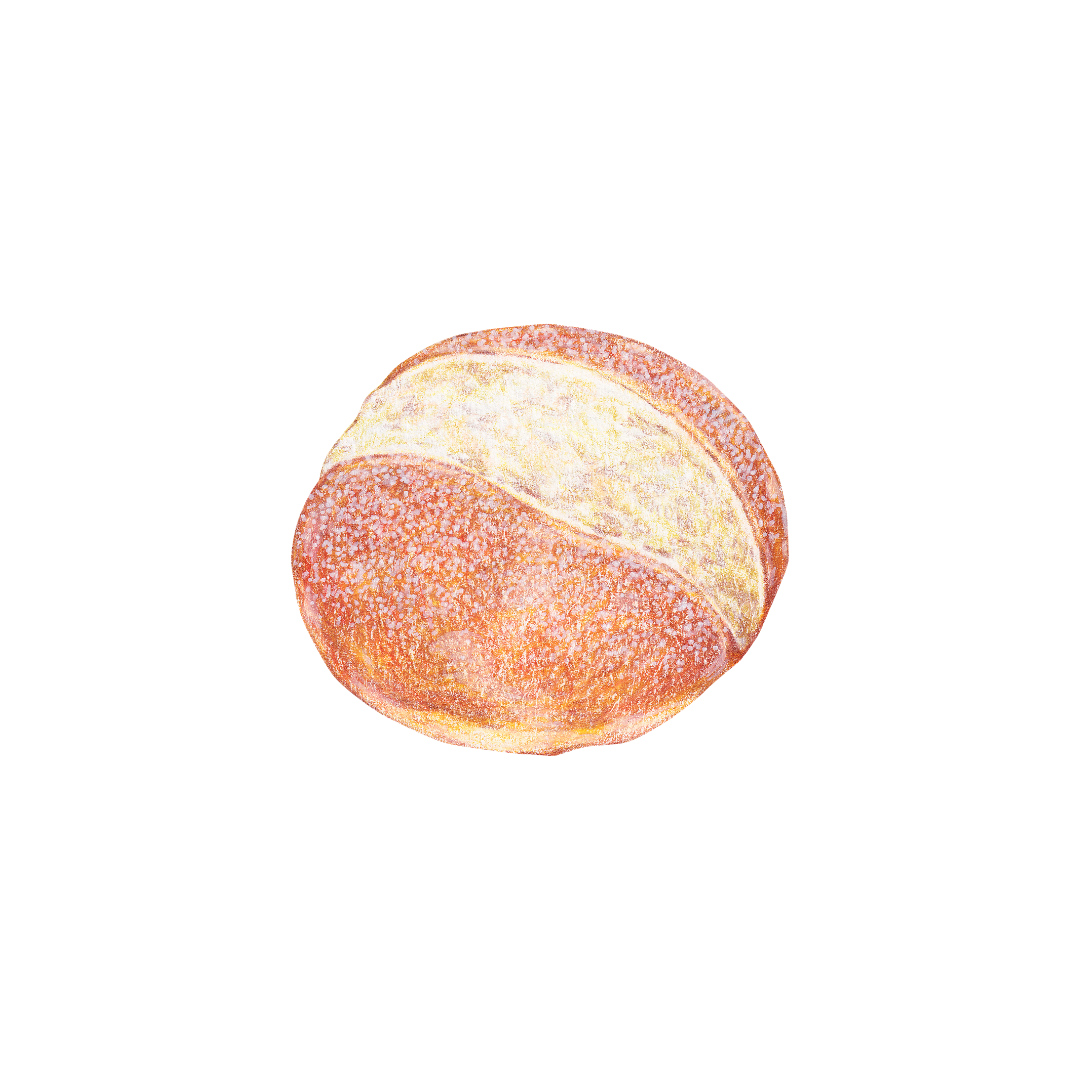
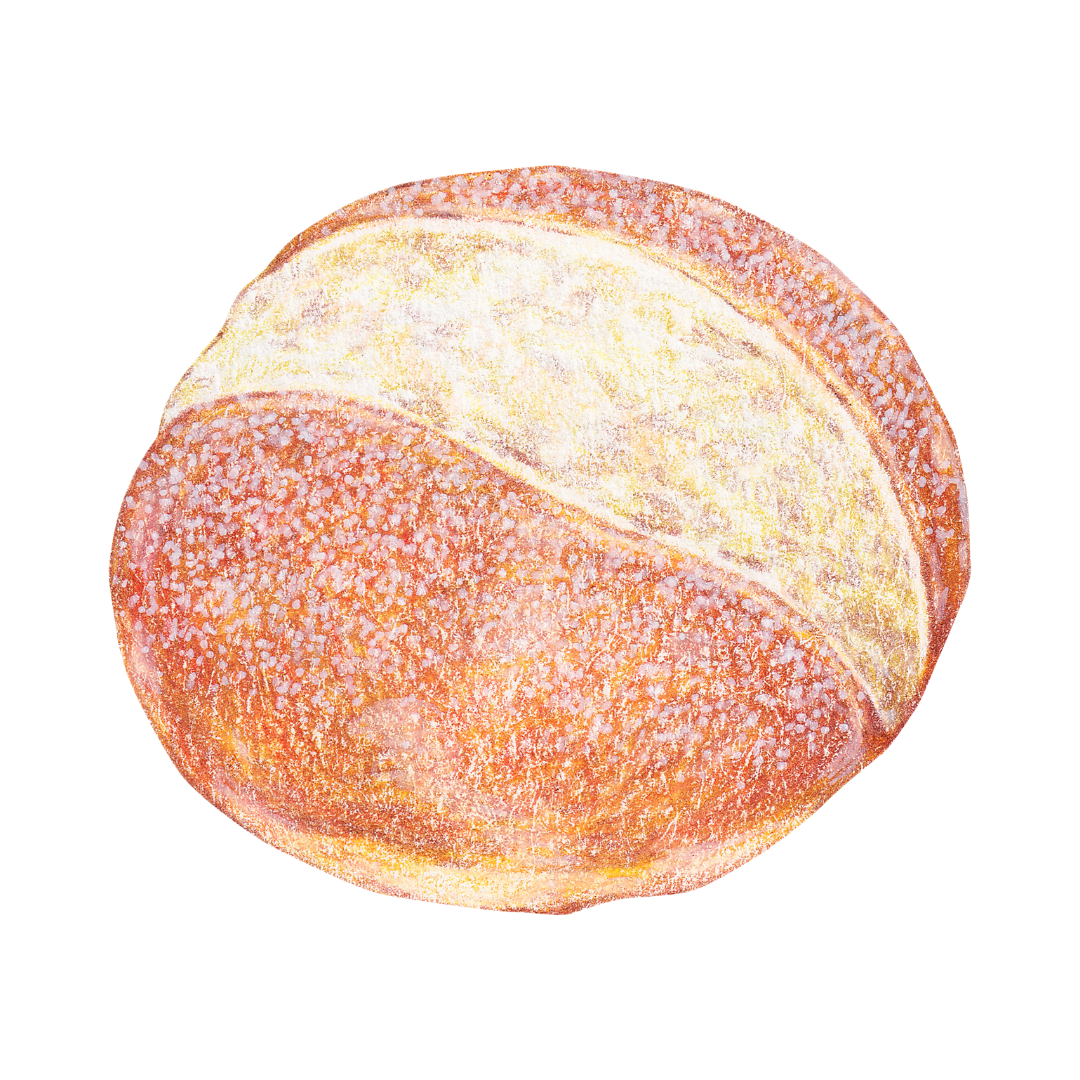
Enlarge convent / lemons / wine art; refresh pastry asset
- Add per-image size control; auto-adjusts side offset to keep gap
- convent 260px, elements (lemons) 320px, wine 240px
- Replace pastry.png (tighter crop)
- Raise hide breakpoint to 1200px to accommodate wider pieces

diff --git a/index.html b/index.html
@@ -32,7 +32,7 @@ body{background:#FFFAF3;-webkit-font-smoothing:antialiased}
 .beat-art.left{left:-230px}
 .beat-art.right{right:-230px}
 .beat.visible .beat-art{opacity:.9}
-@media (max-width:1100px){.beat-art{display:none}}
+@media (max-width:1200px){.beat-art{display:none}}
 .beat.visible{opacity:1;transform:translateY(0)}
 .beat-icon{display:flex;align-items:center;gap:12px;margin-bottom:16px}
 .beat-icon span{font-size:30px}
@@ -152,12 +152,12 @@ const BEATS = [
 {act:1,icon:"✈",art:{src:"passport.png",side:"right",drop:120},text:"A few days later, Claire and Monica in their office – a small, tidy space they can no longer afford.\n\nGiven the failed buyout of their firm, they’re now running on fumes, hemorrhaging overhead. Fortunately, there is one listing that’s been sitting on Monica’s desk for weeks – a convent in Rome. Three nuns who won’t stop calling. An owner already has a crappy offer on the table. The nuns want a better one, which is why they keep calling. But maybe the calamities work in Mysterious Ways.\n\n“Go to Rome,” Monica says. “Take a few days. Do what you do best. They need the money, we need the money.”\n\nWhat Monica means is: you look like crap, you just had a public breakdown, and if you stay in this city you’re just going to sit in your apartment and eat cereal and watch Love Island. “Get on a plane, eat some carbs.”\n\nClaire does not fly well. Flying involves heights, turbulence, and surrender of control to a stranger she is not allowed to supervise.\n\nSomewhere over the Atlantic, she tries to watch a movie. Scrolls through the options, lands on a familiar face – Marcus Sardeson, young, devastating, in the film that got him nominated. She stabs the button, scrolls. Another Marcus film. And another. The in-flight entertainment system is apparently a Marcus Sardeson retrospective.\n\nTurbulence + wine = air sickness bag."},
 // ACT TWO
 {act:2,icon:"🏛",art:{src:"colleseum.png",side:"left",drop:40},text:"It hits her the second she steps outside Fiumicino – the beauty of a city that has been seducing people out of their plans for three thousand years.\n\nShe walks into her hotel, jetlagged and cat-dragged-in. A man in what appears to be a tactical vest and holster nearly assaults her, tells her she looks like she could use a martini, a bath, and possibly an accomplice.\n\n_Marcus._\n\nHe’s in Rome, shooting a spy comedy bad enough to make him want to kill himself. Fans recognize him in the lobby, especially the older ladies. Claire hates how much she hates them fawning all over him.\n\nShe calls Monica who says, _“Of course I knew, sweetie. You’re welcome.”_"},
-{act:2,icon:"⛪",art:{src:"convent.png",side:"right",drop:260},text:"§The Convento di Santa Gertrudis.§ Four hundred years old, falling apart, and yet still the most beautiful building Claire has ever walked into. Faded frescoes, lemon trees, a rose garden gone magnificently feral, an old iron key on a hook in the kitchen. The former Mother Superior insisted it would unlock all their troubles. Nobody knows what it opens.\n\nOur three idiosyncratic nuns –\n\nSISTER FELICITY. British. Late sixties. Former financial magnate. Greets Claire the way a headmistress greets a student she’s already decided to expel.\n\nSISTER THÉRÈSE. French. _Very_ French. Fifties. The personable one, the gossiping one, the one who knows things about wine that nuns should not know. Familiar with every shopkeeper in Trastevere by name, by wife’s name, by mistress’ name.\n\nSISTER CARMELA. Italian. Fifties. Agoraphobic and shy about everything except her kitchen. She communicates with food and makes a maritozzo that stops traffic."},
+{act:2,icon:"⛪",art:{src:"convent.png",side:"right",drop:260,size:260},text:"§The Convento di Santa Gertrudis.§ Four hundred years old, falling apart, and yet still the most beautiful building Claire has ever walked into. Faded frescoes, lemon trees, a rose garden gone magnificently feral, an old iron key on a hook in the kitchen. The former Mother Superior insisted it would unlock all their troubles. Nobody knows what it opens.\n\nOur three idiosyncratic nuns –\n\nSISTER FELICITY. British. Late sixties. Former financial magnate. Greets Claire the way a headmistress greets a student she’s already decided to expel.\n\nSISTER THÉRÈSE. French. _Very_ French. Fifties. The personable one, the gossiping one, the one who knows things about wine that nuns should not know. Familiar with every shopkeeper in Trastevere by name, by wife’s name, by mistress’ name.\n\nSISTER CARMELA. Italian. Fifties. Agoraphobic and shy about everything except her kitchen. She communicates with food and makes a maritozzo that stops traffic."},
 {act:2,icon:"🏎",art:{src:"relic.png",side:"left",drop:60},text:"And, GIANCARLO. Late twenties, drives a Ferrari, acts exactly like a young Italian driving a Ferrari. Great-grandson of the man who donated the land a hundred years ago, in need of funds for a lifestyle he cannot afford.\n\nHe gives Claire §three days§ to find a better offer than the one he has. If she fails, nuns are out on the street without a dime and the convent becomes a hotel. And very possibly, Claire and Monica are forced to close up shop.\n\nThe nuns don’t want the convent sold; they believe Claire can help them. Claire explains, that she sells buildings for a living – she does not save them. The nuns nod politely. They agree entirely. They do not mean a word of it."},
 {act:2,icon:"🥐",text:"Claire wakes the next morning to see a long line at the convent gate. Carmela handing out pastry to the homeless through the door. Ever generous, but also ever expensive. No wonder the nuns can’t afford their monthly costs."},
-{act:2,icon:"📸",art:{src:"elements.png",side:"left",drop:180},text:"Claire hires a local photographer to shoot the convent. He speaks nine words of English, all incorrectly. Marcus, who has decided Claire is the most interesting tourist attraction in Rome, tags along whether he’s welcome or not.\n\nWhat follows is a photo shoot through Trastevere that Claire will later describe as the single worst professional experience of her life.\n\nThe photographer insists on the rooftop. Claire is terrified of heights, but Marcus pushes forth until they end up stranded atop a Roman balcony, arguing – about the past, about who ran from whom, about the fact that he has spent three decades chasing her and she has spent three decades refusing to be caught.\n\nWhile a crowd in the piazza below points, films, narrates in several languages.\n\nThe fire department arrives. Claire is craned down from the roof in a harness, her dress and undies flapping in wind before the entire city. Marcus waves like a man in a victory parade.\n\nBy morning, Claire is on the front page of the Italian tabloids."},
+{act:2,icon:"📸",art:{src:"elements.png",side:"left",drop:140,size:320},text:"Claire hires a local photographer to shoot the convent. He speaks nine words of English, all incorrectly. Marcus, who has decided Claire is the most interesting tourist attraction in Rome, tags along whether he’s welcome or not.\n\nWhat follows is a photo shoot through Trastevere that Claire will later describe as the single worst professional experience of her life.\n\nThe photographer insists on the rooftop. Claire is terrified of heights, but Marcus pushes forth until they end up stranded atop a Roman balcony, arguing – about the past, about who ran from whom, about the fact that he has spent three decades chasing her and she has spent three decades refusing to be caught.\n\nWhile a crowd in the piazza below points, films, narrates in several languages.\n\nThe fire department arrives. Claire is craned down from the roof in a harness, her dress and undies flapping in wind before the entire city. Marcus waves like a man in a victory parade.\n\nBy morning, Claire is on the front page of the Italian tabloids."},
 {act:2,icon:"🔥",text:"Day two. From back home, Monica has arranged a virtual staging event – a livestreamed walkthrough for potential buyers around the world. Claire briefs the nuns: stay out of frame, stay quiet, stay dignified.\n\nSays the woman whose underwear is now an Italian meme.\n\nThe nuns have sabotage in mind. Felicity volunteers on camera every impediment the property has ever suffered. Thérèse warmly walks the buyers through the joys of the neighborhood – the 2 AM drunks, the smell in August, the water pipe she just broke. And Carmela provides a charming baking demonstration that manages to set off every smoke alarm in Trastevere.\n\nBuyers drop out one by one. Monica is furious. Claire confronts the nuns. Felicity meets her eye and shrugs. “Thou shalt not sell.”"},
-{act:2,icon:"🎉",art:{src:"wine.png",side:"right",drop:340},text:"The nuns won the battle but cost themselves the war. No new buyer materializes. Giancarlo, sweating through his linen suit, rings the original lowball buyer and accepts.\n\nThe nuns throw themselves a farewell party. They invite the whole neighborhood. Carmela bakes for a hundred amidst tears.\n\nClaire asks Felicity about the key in the kitchen. Felicity half-smiles. “Sister Augusta said it had all the answers. We’ve never found the lock, so it’s actually nothing but questions...”\n\nClaire asks Thérèse how she ended up here. Thérèse goes quiet for the first time since Claire arrived. She says two words – “un uomo cattivo” – and changes the subject. _A bad man._\n\nCarmela asks Claire if she has children. Claire says she tried for years. And there was a guy, not the right guy…who left after. Carmela puts her hand on Claire’s. Neither of them speaks for a while.\n\nLater, Marcus finds Claire in a quiet corner of the courtyard. He’s a little drunk, a lot undone. His career is in the crapper and Rome is making him feel like a relic. He looks around at the nuns, at the frescoes, at Carmela moving platters from the kitchen, suddenly moved by it all.\n\n“Four hundred years. And next month some bloke’s putting in a rooftop jacuzzi. Meanwhile, I’m playing a spy who fights Russians with a Nerf gun. Nothing that lasts means anything anymore, Clairey. Except you. You’ve lasted, in every fiber of my being. Every divorce, every woman...they’ve all been a stand-in for you.”\n\nHis eyes mean it. Hers begin to well."},
+{act:2,icon:"🎉",art:{src:"wine.png",side:"right",drop:340,size:240},text:"The nuns won the battle but cost themselves the war. No new buyer materializes. Giancarlo, sweating through his linen suit, rings the original lowball buyer and accepts.\n\nThe nuns throw themselves a farewell party. They invite the whole neighborhood. Carmela bakes for a hundred amidst tears.\n\nClaire asks Felicity about the key in the kitchen. Felicity half-smiles. “Sister Augusta said it had all the answers. We’ve never found the lock, so it’s actually nothing but questions...”\n\nClaire asks Thérèse how she ended up here. Thérèse goes quiet for the first time since Claire arrived. She says two words – “un uomo cattivo” – and changes the subject. _A bad man._\n\nCarmela asks Claire if she has children. Claire says she tried for years. And there was a guy, not the right guy…who left after. Carmela puts her hand on Claire’s. Neither of them speaks for a while.\n\nLater, Marcus finds Claire in a quiet corner of the courtyard. He’s a little drunk, a lot undone. His career is in the crapper and Rome is making him feel like a relic. He looks around at the nuns, at the frescoes, at Carmela moving platters from the kitchen, suddenly moved by it all.\n\n“Four hundred years. And next month some bloke’s putting in a rooftop jacuzzi. Meanwhile, I’m playing a spy who fights Russians with a Nerf gun. Nothing that lasts means anything anymore, Clairey. Except you. You’ve lasted, in every fiber of my being. Every divorce, every woman...they’ve all been a stand-in for you.”\n\nHis eyes mean it. Hers begin to well."},
 {act:2,icon:"🛏",text:"Claire excuses herself, moved by Marcus’ surprising words. She washes her face, looks at herself in a four-hundred-year-old mirror, hearing the voice of her mother nun from the hospital. What kind of life is she actually building?\n\nShe returns to the courtyard, determined to start anew. “We are not selling this place,” she tells the nuns. “I don’t know how. But we are not selling!”\n\nShe grabs Marcus and whisks him back to their hotel. The elevator takes thirty years to reach his floor. They’re kissing before the doors close. They stumble into his room –\n\nFreezing in place.\n\nThe producer and co-star of his movie is naked in his bed, having let herself in with her own key. Claire ogles, starstruck. “Oh my God, you were incredible in –” Stopping, remembering the situation. Marcus follows her, saying it’s nothing, a friends-with-benefits thing and honestly, _barely_ friends at that.\n\nShe sinks into the floor of her room, cursing the God she momentarily decided to believe in."},
 {act:2,icon:"☕",text:"§Our midpoint morning.§ Claire has slept exactly four minutes, downed three espressos, and is, in other words, _lethal_. And still not selling.\n\nShe finds Giancarlo at his mother’s house – where he still lives, of course. She yells at him, attacking his shortsightedness, his crassness, his overtly philandering ways. _Oops._ “Sorry, that one wasn’t about you.” Nonna remarks, Oh yes it was.\n\nClaire pitches him heritage, community, history, a lease renewal, a partnership, anything. He shrugs, _“Cara, no.”_ His nonna calls him a _mammone_ and storms out of the room.\n\nClaire goes to the Roman heritage office. To the municipal government. To the Vatican bank. Every door closes in her face. By nightfall, she’s been told no in three different languages.\n\nShe ignores Marcus’ calls. She eats two pizzas. The nuns console her. She consoles them. Wine consoles them all."},
 {act:2,icon:"🐎",art:{src:"statue2.png",side:"left",drop:40},text:"Marcus launches an apology tour. Flowers, notes slipped under her door, a gelato cart with her name on it.\n\nThen, in the piazza, galloping after her on a horse stolen from the shoot, he gives into the speech of a lifetime. Tourists applaud. People livestream. Claire asks if he actually wrote that.\n\n“The writer may have punched it up.”\n\nUnimpressed, Claire turns to leave and bumps right into…_Monica_. And she’s not happy."},
@@ -245,6 +245,12 @@ BEATS.forEach((beat, i) => {
     artImg.alt = "";
     artImg.loading = "lazy";
     if (beat.art.drop != null) artImg.style.top = beat.art.drop + "px";
+    if (beat.art.size != null) {
+      artImg.style.width = beat.art.size + "px";
+      const offset = (beat.art.size + 40) + "px";
+      if (beat.art.side === "left") artImg.style.left = "-" + offset;
+      else artImg.style.right = "-" + offset;
+    }
     el.appendChild(artImg);
   }
 
